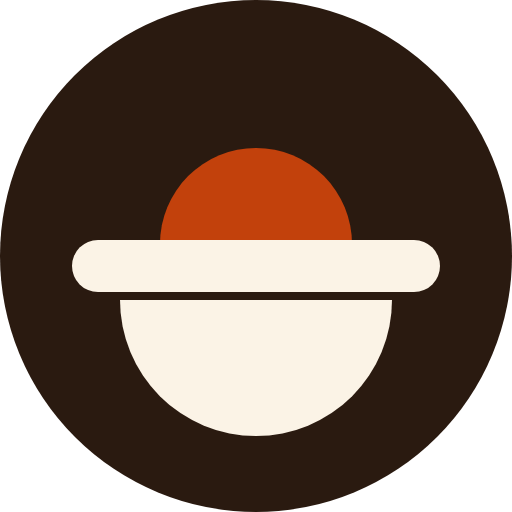
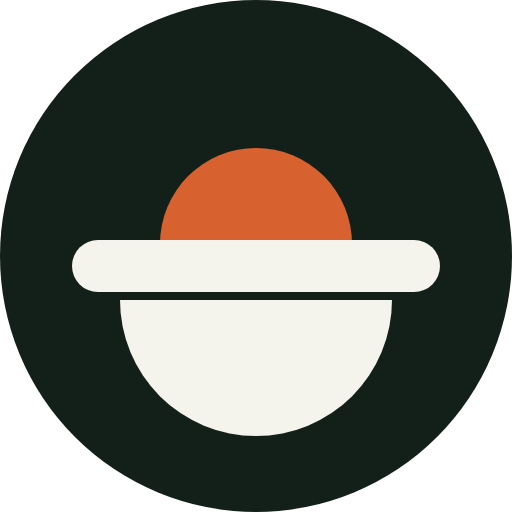
Bone and jade, in both themes
Replaces Makan's cream and sambal. That palette was warm and appetising and
also, as you put it, not premium — and it is worth naming why: warm cream
with a terracotta accent is the single most common look an interface lands
on when nobody chose one.

Light is bone: an off-white with a green cast rather than a cream one, so
the two themes read as one family rather than two apps in different
lighting. Dark is a green-black ground, chosen over the neutral charcoal
every dark theme defaults to, with jade lifted from #1F5D4C to #5FC9A6 to
stay legible on it.

The four meal colours stay warm in both. They are semantics — amber
breakfast, sambal lunch, olive tea, purple dinner — not chrome, and turning
them green because the accent went green would lose the meaning. Each was
re-measured against the new grounds rather than assumed to still pass.

The logo no longer inverts. It was painted with `--ink` and `--paper`, so in
dark mode it came out as a pale disc with the bowl punched through it as a
hole — the same shapes reading as a different logo at night. Its colours are
fixed now: a deep green disc that still separates from the dark ground, a
bone bowl, a warm mound. app/icon.svg and all four home-screen PNGs carry
the same values.

Everything else that had a palette hex baked into it followed: the manifest
background and theme colour, the light and dark map backdrops, the
theme-colour meta the toggle writes, and the Lottie fallback tint.
[…]

Changed region(s): [[0.3125, 0.2812, 0.6875, 0.4688]]

diff --git a/app/globals.css b/app/globals.css
@@ -10,17 +10,17 @@
      opacity modifiers (`bg-card/95`) work, and `--x` as a real colour, so
      inline `style={{ color: 'var(--accent)' }}` keeps working. */
   :root {
-    --paper-rgb: 251 243 230;
+    --paper-rgb: 246 244 239;
     --paper: rgb(var(--paper-rgb));
-    --card-rgb: 255 253 248;
+    --card-rgb: 253 253 250;
     --card: rgb(var(--card-rgb));
-    --ink-rgb: 42 26 16;
+    --ink-rgb: 22 32 27;
     --ink: rgb(var(--ink-rgb));
-    --muted-rgb: 122 98 80;
+    --muted-rgb: 95 107 99;
     --muted: rgb(var(--muted-rgb));
-    --rule-rgb: 231 216 190;
+    --rule-rgb: 223 224 216;
     --rule: rgb(var(--rule-rgb));
-    --accent-rgb: 194 65 12;
+    --accent-rgb: 31 93 76;
     --accent: rgb(var(--accent-rgb));
     --on-accent-rgb: 255 255 255;
     --on-accent: rgb(var(--on-accent-rgb));
@@ -40,29 +40,29 @@
     --meal-petang-text: rgb(var(--meal-petang-text-rgb));
     --meal-malam-text-rgb: 107 74 140;
     --meal-malam-text: rgb(var(--meal-malam-text-rgb));
-    --shadow-modal: 0 18px 50px rgba(42, 26, 16, 0.28);
+    --shadow-modal: 0 18px 50px rgba(22, 32, 27, 0.20);
     color-scheme: light;
   }
 
-  /* Dark is not an inversion. Inverted cream goes blue-grey and cold, which is
-     wrong for an app about food, so these grounds keep the brown in them and
-     every foreground was re-derived against them rather than reused. A warm
-     shadow is also invisible on a warm-black ground, hence the second one. */
+  /* Bone and jade in both themes. Dark is not this dimmed — the ground is a
+     green-black rather than the neutral charcoal every dark theme defaults to,
+     and jade comes a long way up to stay legible on it. The four meal colours
+     stay warm in both, because they carry meaning rather than chrome. */
   @media (prefers-color-scheme: dark) {
     :root {
-      --paper-rgb: 23 17 12;
+      --paper-rgb: 15 22 19;
       --paper: rgb(var(--paper-rgb));
-      --card-rgb: 33 25 19;
+      --card-rgb: 24 36 33;
       --card: rgb(var(--card-rgb));
-      --ink-rgb: 244 234 219;
+      --ink-rgb: 237 239 232;
       --ink: rgb(var(--ink-rgb));
-      --muted-rgb: 183 161 139;
+      --muted-rgb: 157 172 164;
       --muted: rgb(var(--muted-rgb));
-      --rule-rgb: 58 44 33;
+      --rule-rgb: 43 58 53;
       --rule: rgb(var(--rule-rgb));
-      --accent-rgb: 255 138 91;
+      --accent-rgb: 95 201 166;
       --accent: rgb(var(--accent-rgb));
-      --on-accent-rgb: 26 18 12;
+      --on-accent-rgb: 13 21 18;
       --on-accent: rgb(var(--on-accent-rgb));
       --meal-sarapan-rgb: 232 166 75;
       --meal-sarapan: rgb(var(--meal-sarapan-rgb));
@@ -88,19 +88,19 @@
   /* The toggle has to beat the media query in *both* directions, so light is
      written out again rather than left to the cascade. */
   :root[data-theme='dark'] {
-    --paper-rgb: 23 17 12;
+    --paper-rgb: 15 22 19;
     --paper: rgb(var(--paper-rgb));
-    --card-rgb: 33 25 19;
+    --card-rgb: 24 36 33;
     --card: rgb(var(--card-rgb));
-    --ink-rgb: 244 234 219;
+    --ink-rgb: 237 239 232;
     --ink: rgb(var(--ink-rgb));
-    --muted-rgb: 183 161 139;
+    --muted-rgb: 157 172 164;
     --muted: rgb(var(--muted-rgb));
-    --rule-rgb: 58 44 33;
+    --rule-rgb: 43 58 53;
     --rule: rgb(var(--rule-rgb));
-    --accent-rgb: 255 138 91;
+    --accent-rgb: 95 201 166;
     --accent: rgb(var(--accent-rgb));
-    --on-accent-rgb: 26 18 12;
+    --on-accent-rgb: 13 21 18;
     --on-accent: rgb(var(--on-accent-rgb));
     --meal-sarapan-rgb: 232 166 75;
     --meal-sarapan: rgb(var(--meal-sarapan-rgb));
@@ -123,17 +123,17 @@
   }
 
   :root[data-theme='light'] {
-    --paper-rgb: 251 243 230;
+    --paper-rgb: 246 244 239;
     --paper: rgb(var(--paper-rgb));
-    --card-rgb: 255 253 248;
+    --card-rgb: 253 253 250;
     --card: rgb(var(--card-rgb));
-    --ink-rgb: 42 26 16;
+    --ink-rgb: 22 32 27;
     --ink: rgb(var(--ink-rgb));
-    --muted-rgb: 122 98 80;
+    --muted-rgb: 95 107 99;
     --muted: rgb(var(--muted-rgb));
-    --rule-rgb: 231 216 190;
+    --rule-rgb: 223 224 216;
     --rule: rgb(var(--rule-rgb));
-    --accent-rgb: 194 65 12;
+    --accent-rgb: 31 93 76;
     --accent: rgb(var(--accent-rgb));
     --on-accent-rgb: 255 255 255;
     --on-accent: rgb(var(--on-accent-rgb));
@@ -153,7 +153,7 @@
     --meal-petang-text: rgb(var(--meal-petang-text-rgb));
     --meal-malam-text-rgb: 107 74 140;
     --meal-malam-text: rgb(var(--meal-malam-text-rgb));
-    --shadow-modal: 0 18px 50px rgba(42, 26, 16, 0.28);
+    --shadow-modal: 0 18px 50px rgba(22, 32, 27, 0.20);
     color-scheme: light;
   }
 

diff --git a/lib/theme.ts b/lib/theme.ts
@@ -8,12 +8,19 @@
  * the numbers, and `contrast.test.ts` reads `app/globals.css` and fails if the
  * stylesheet has drifted from them.
  *
- * Dark is not an inversion. Warm paper inverted goes blue-grey and cold, which
- * is wrong for an app about food; these grounds keep the brown in them. Every
- * foreground below was moved until it cleared the same bar on the dark grounds
- * that its light counterpart clears on paper — several of them had to change a
- * lot, because a colour tuned to sit on cream is nearly always too dark to sit
- * on brown-black.
+ * Bone and jade, in both themes. It replaced Makan's cream and sambal, which
+ * was warm and appetising and also the single most common look an interface
+ * lands on by default. Bone is an off-white with a green cast rather than a
+ * cream one, so the two themes are one family rather than two apps.
+ *
+ * Dark is not that palette dimmed: the ground is a green-black, chosen over
+ * the neutral charcoal every dark theme defaults to, and jade has to come a
+ * long way up to be legible on it.
+ *
+ * The four meal colours stay warm in both. They are the app's semantics —
+ * amber breakfast, sambal lunch, olive tea, purple dinner — not chrome, and
+ * turning them green because the accent went green would lose the meaning.
+ * Each was re-checked against the new grounds rather than assumed.
  */
 
 export interface ThemeTokens {
@@ -38,12 +45,15 @@ export interface ThemeTokens {
 }
 
 export const LIGHT: ThemeTokens = {
-  paper: '#FBF3E6',
-  card: '#FFFDF8',
-  ink: '#2A1A10',
-  muted: '#7A6250',
-  rule: '#E7D8BE',
-  accent: '#C2410C',
+  // Bone: an off-white with a green cast rather than a cream one, so it is the
+  // same family as the dark ground rather than a different app in daylight.
+  paper: '#F6F4EF',
+  card: '#FDFDFA',
+  ink: '#16201B',
+  muted: '#5F6B63',
+  rule: '#DFE0D8',
+  // Jade, deep enough to be read as text as well as used as a fill.
+  accent: '#1F5D4C',
   onAccent: '#FFFFFF',
   meal: {
     sarapan: '#E39B3C',
@@ -61,16 +71,17 @@ export const LIGHT: ThemeTokens = {
 };
 
 export const DARK: ThemeTokens = {
-  // Warm, not blue: the same hue family as the paper, taken right down.
-  paper: '#17110C',
-  card: '#211913',
-  ink: '#F4EADB',
-  muted: '#B7A18B',
-  rule: '#3A2C21',
-  // Sambal has to come up a long way to be readable on this ground.
-  accent: '#FF8A5B',
-  // …which means it is now a light fill, so its label goes dark.
-  onAccent: '#1A120C',
+  // Bone and jade. A green-black ground rather than a neutral charcoal —
+  // a charcoal is the default and reads as one; this has a colour in it.
+  paper: '#0F1613',
+  card: '#182421',
+  ink: '#EDEFE8',
+  muted: '#9DACA4',
+  rule: '#2B3A35',
+  // Jade has to come up a long way to be readable on this ground.
+  accent: '#5FC9A6',
+  // …which makes it a light fill, so its label goes dark.
+  onAccent: '#0D1512',
   meal: {
     sarapan: '#E8A64B',
     tengahari: '#FF8A5B',

diff --git a/lib/contrast.test.ts b/lib/contrast.test.ts
@@ -79,9 +79,21 @@ describe('places the stylesheet could hard-code a colour and break one theme', (
     expect(block).not.toMatch(/color:\s*#fff/i);
   });
 
-  it('has a modal shadow per theme, since a warm one vanishes on warm black', () => {
-    expect(CSS).toMatch(/--shadow-modal:.*rgba\(42, 26, 16/);
+  it('has a modal shadow per theme, since a tinted one vanishes on a dark ground', () => {
+    // Light casts in the ink's own hue; dark casts in black, because a tinted
+    // shadow on a green-black ground is invisible.
+    expect(CSS).toMatch(/--shadow-modal:.*rgba\(22, 32, 27/);
     expect(CSS).toMatch(/--shadow-modal:.*rgba\(0, 0, 0/);
+  });
+
+  it('keeps the light ground and the dark ground in the same hue family', () => {
+    // Bone and jade is one palette in two weights, not two palettes.
+    const hue = (hex: string): number => {
+      const [r, g, b] = [0, 2, 4].map((i) => parseInt(hex.slice(1 + i, 3 + i), 16));
+      return g! - Math.min(r!, b!);
+    };
+    expect(hue(LIGHT.paper), 'light ground has no green in it').toBeGreaterThan(0);
+    expect(hue(DARK.paper), 'dark ground has no green in it').toBeGreaterThan(0);
   });
 });
 
@@ -170,9 +182,19 @@ describe('the two themes are actually different', () => {
     expect(contrastRatio(LIGHT.ink, DARK.ink)).toBeGreaterThan(10);
   });
 
-  it('keeps the dark ground warm rather than blue', () => {
-    // Inverted cream goes blue-grey, which is wrong for an app about food.
-    const [r, , b] = [0, 2, 4].map((i) => parseInt(DARK.paper.slice(1 + i, 3 + i), 16));
+  it('gives the dark ground a colour rather than a neutral charcoal', () => {
+    // Light is cream and sambal; dark is bone and jade. What both must avoid is
+    // the default — a grey with no hue in it, which is what a dark theme looks
+    // like when nobody chose one.
+    const [r, g, b] = [0, 2, 4].map((i) => parseInt(DARK.paper.slice(1 + i, 3 + i), 16));
+    const spread = Math.max(r!, g!, b!) - Math.min(r!, g!, b!);
+    expect(spread, 'dark ground is neutral grey').toBeGreaterThanOrEqual(4);
+    // Green leads, which is what makes it jade rather than charcoal.
+    expect(g!).toBeGreaterThan(r!);
+  });
+
+  it('keeps the light ground warm, which is what Makan is', () => {
+    const [r, , b] = [0, 2, 4].map((i) => parseInt(LIGHT.paper.slice(1 + i, 3 + i), 16));
     expect(r!).toBeGreaterThan(b!);
   });
 });

diff --git a/components/Logo.tsx b/components/Logo.tsx
@@ -7,12 +7,22 @@
  *
  * Four shapes, three colours, no strokes and no gradients — because the only
  * test a mark like this has to pass is a browser tab and a home screen, and it
- * has to still mean something at sixteen pixels. The ink disc is not
+ * has to still mean something at sixteen pixels. The dark disc is not
  * decoration: without it the mark disappears against a dark tab strip.
+ *
+ * Its colours are fixed rather than taken from the theme. Painting the disc
+ * with `--ink` and the bowl with `--paper` meant the mark inverted in dark
+ * mode: a pale disc with the bowl punched out of it as a hole, which read as a
+ * different logo rather than the same one at night. A brand mark should look
+ * like itself in both. The disc keeps its own deep green so it still separates
+ * from the dark ground, and the app icon in app/icon.svg carries the same
+ * values.
  */
+const DISC = '#132019';
+const BOWL = '#F4F3EC';
 export function LogoMark({
   size = 32,
-  colour = 'var(--accent)',
+  colour = '#D8622F',
   className = '',
 }: {
   size?: number;
@@ -28,11 +38,11 @@ export function LogoMark({
       role="img"
       aria-label="Batam"
     >
-      <circle cx="32" cy="32" r="32" fill="var(--ink, #2A1A10)" />
+      <circle cx="32" cy="32" r="32" fill={DISC} />
       {/* What is in it, nested into the rim rather than floating above it. */}
       <path d="M20 30.5a12 12 0 0 1 24 0z" fill={colour} />
-      <rect x="9" y="30" width="46" height="6.5" rx="3.25" fill="var(--paper, #FBF3E6)" />
-      <path d="M15 37.5h34a17 17 0 0 1-34 0z" fill="var(--paper, #FBF3E6)" />
+      <rect x="9" y="30" width="46" height="6.5" rx="3.25" fill={BOWL} />
+      <path d="M15 37.5h34a17 17 0 0 1-34 0z" fill={BOWL} />
     </svg>
   );
 }

diff --git a/components/ThemeToggle.tsx b/components/ThemeToggle.tsx
@@ -16,8 +16,8 @@ export const THEME_KEY = 'batam-theme';
  */
 export const THEME_SCRIPT = `(function(){try{var t=localStorage.getItem('${THEME_KEY}');if(t==='light'||t==='dark'){document.documentElement.setAttribute('data-theme',t)}}catch(e){}})()`;
 
-const LIGHT_HEX = '#FBF3E6';
-const DARK_HEX = '#17110C';
+const LIGHT_HEX = '#F6F4EF';
+const DARK_HEX = '#0F1613';
 
 function apply(choice: ThemeChoice): void {
   const root = document.documentElement;

diff --git a/lib/mapStyle.ts b/lib/mapStyle.ts
@@ -51,8 +51,8 @@ function style(variant: 'light_all' | 'dark_all', backdrop: string): StyleSpecif
   };
 }
 
-export const MAP_STYLE = style('light_all', '#FBF3E6');
-export const MAP_STYLE_DARK = style('dark_all', '#17110C');
+export const MAP_STYLE = style('light_all', '#F6F4EF');
+export const MAP_STYLE_DARK = style('dark_all', '#0F1613');
 
 export function mapStyle(dark: boolean): StyleSpecification {
   return dark ? MAP_STYLE_DARK : MAP_STYLE;

diff --git a/app/manifest.ts b/app/manifest.ts
@@ -10,8 +10,8 @@ export default function manifest(): MetadataRoute.Manifest {
     scope: '/',
     display: 'standalone',
     orientation: 'portrait',
-    background_color: '#FBF3E6',
-    theme_color: '#C2410C',
+    background_color: '#F6F4EF',
+    theme_color: '#F6F4EF',
     lang: 'en',
     categories: ['travel', 'navigation'],
     icons: [

diff --git a/app/layout.tsx b/app/layout.tsx
@@ -49,7 +49,7 @@ export const viewport: Viewport = {
   // user-scalable is left alone.
   viewportFit: 'cover',
   // Overwritten at runtime by the theme toggle; this is the light default.
-  themeColor: '#FBF3E6',
+  themeColor: '#F6F4EF',
 };
 
 export default function RootLayout({

diff --git a/components/LottieMoment.tsx b/components/LottieMoment.tsx
@@ -54,7 +54,7 @@ export function LottieMoment({
     const value = getComputedStyle(document.documentElement)
       .getPropertyValue('--accent')
       .trim();
-    setColour(value || '#C2410C');
+    setColour(value || '#1F5D4C');
   }, []);
 
   if (!colour) return null;
